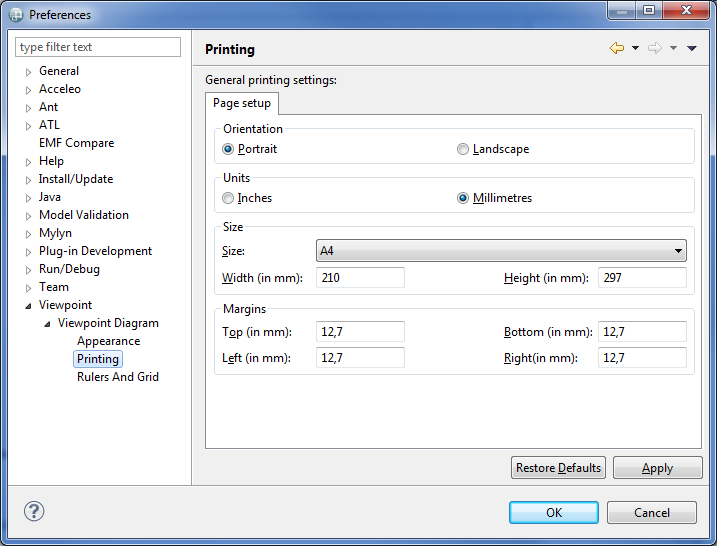
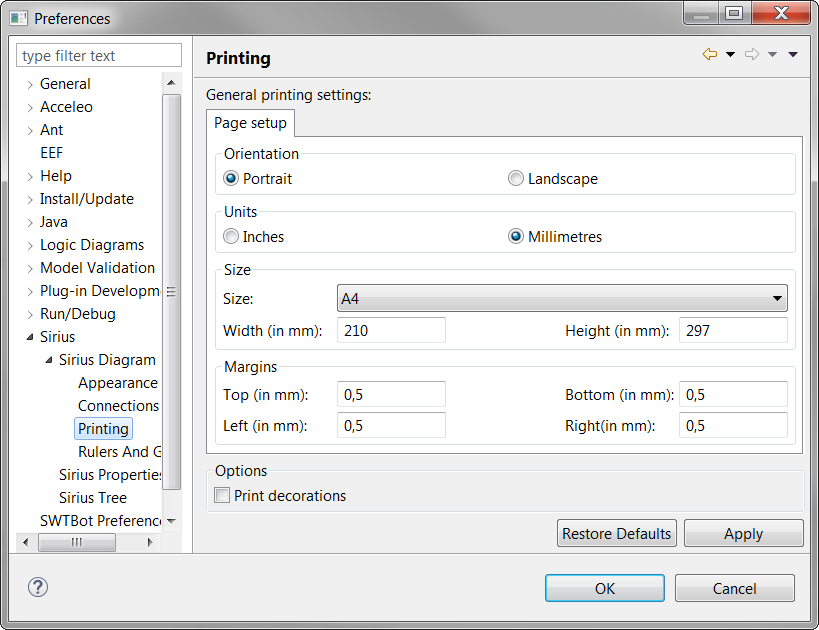
[506259] Update user and specifier documentation for decorations
Bug: 506259

Changed region(s): [[0.0, 0.0, 1.0, 1.0]]

diff --git a/plugins/org.eclipse.sirius.doc/doc/specifier/diagrams/Diagrams.html b/plugins/org.eclipse.sirius.doc/doc/specifier/diagrams/Diagrams.html
@@ -264,6 +264,12 @@
 			<em>L1</em> and once for 
 			<em>L2</em>).
 		</p>
+		<h4 id="Transientlayer">Transient layer</h4>
+		<p>A transient layer is a layer that contains only 
+			<em>Decoration Description</em> and/or tools.
+			<br/>When applying a transient layer, the diagram is 
+			<strong>never</strong> modified. Tools are displayed in the palette and decorations are refreshed in opened editors.
+		</p>
 		<h3 id="graphical_elements">Graphical Elements and Mappings</h3>
 		<p>This section describes the different kinds of graphical elements supported on Sirius diagrams and the general principle of how they are specified inside the VSM, through the notion of 
 			<em>mapping</em>.
@@ -1191,21 +1197,96 @@
 		</ul>
 		<h3 id="decorations">Decorations</h3>
 		<p>Decorations can be used to add small graphical annotations to the elements of a diagram. They are defined directly inside a layer, and they can be either 
-			<em>Mapping Based Decorations</em> or 
-			<em>Semantic Based Decorations</em>. Both have a name, a 
-			<em>Position</em> which indicate where the decorator should be place relative to its target element, and a 
-			<em>Decorator Path</em>, which should point to a small icon to use as decorator.
+			<em>Mapping Based Decorations</em>, 
+			<em>Semantic Based Decorations</em> or 
+			<em>Generic Decorations</em>.
 		</p>
 		<p>
-			<em>Mapping Based Decorations</em> have a list of 
-			<em>Mappings</em> to which they may apply, while 
-			<em>Semantic Based Decoration</em> have a 
+			<strong>Mapping Based Decorations</strong> have a list of 
+			<em>Mappings</em> to which they may apply.
+			<br/> 
+			<img border="0" src="./images/mappingBasedDecoration.png"/>
+		</p>
+		<p>
+			<strong>Semantic Based Decoration</strong> have a 
 			<em>Domain Class</em> and will apply to all graphical elements which have an instance of this class as their semantic element, whatever are the mapping(s) used to represent them.
+			<br/> 
+			<img border="0" src="./images/semanticBasedDecoration.png"/>
+		</p>
+		<p>
+			<strong>Generic Decoration</strong> is only based on the 
+			<em>Precondition Expression</em> to know if it applies on the current graphical Element.
 		</p>
 		<p>The 
-			<em>Precondition Expression</em> is evaluated in the context of a candidate semantic element (as selected by either the 
-			<em>Mappings</em> or 
-			<em>Domain Class</em> property, and if the expression returns true, the decorator will be shown as the specified location on top of the graphical element&#8217;s shape.
+			<em>Precondition Expression</em> is evaluated in the context of a candidate semantic element which is the semantic element of the current graphical element (that is 
+			<em>DSemanticDecorator.target</em>). If the expression returns true, the decorator will be shown.
+		</p>
+		<h4 id="Decorationdisplay">Decoration display</h4>
+		<p>The 
+			<em>Decoration Description</em> has a 
+			<em>Position</em> which indicates where the decorator should be placed. The position can be chosen among the four corners (NORTH_WEST, NORTH_EAST, SOUTH_WEST and SOUTH_EAST), the middle of each bounding box sides (NORTH, SOUTH, WEST and EAST) and the CENTER positions. 
+		</p>
+		<img align="center" border="0" src="./images/decoration_positions.png"/>
+		<p>Many decorations can be specified at the same 
+			<em>Position</em>. To manage that, the decorations are displayed from their defined position along the border of the bounding box according to the 
+			<em>Distribution Direction</em>.
+		</p>
+		<ul>
+			<li>For corner decorations, it is possible to choose between vertical or horizontal direction.</li>
+			<li>For NORTH, SOUTH and CENTER positions, the direction is only horizontal from the left to right.</li>
+			<li>For WEST and EAST positions, the direction is only vertical from top to bottom.</li>
+		</ul>
+		<p>Decorations example: 
+			<img align="center" border="0" src="./images/decoration_example.png"/>
+		</p>
+		<p>By default the margin between the decoration and the border of the figure is 2 pixels.
+			<br/>When a node contains border nodes, the node decorations are shifted from the border to avoid overlap with border node
+			<br/>Decorations example with border nodes: 
+			<img align="center" border="0" src="./images/decoration_borderNode.png"/>
+		</p>
+		<p>The decoration icon is defined with 
+			<em>Image Expression</em> which is an InterpretedExpression. 
+			<em>Image Expression</em> may be:
+		</p>
+		<ul>
+			<li>a path to an image which can be absolute or relative to the workspace. A workspace path example: 
+				<em>/org.eclipse.sirius.tests.sample.component.design/images/square16x16.png</em>
+			</li>
+			<li>an expression that gives a path to an image</li>
+			<li>an expression that provides an instance of 
+				<code>org.eclipse.swt.graphics.Image</code>. Provider will have to define a cache of image to optimize memory consumption and performance. For now, there is no mechanism to release the cache.
+			</li>
+			<li>an expression that provides an instance of 
+				<code>org.eclipse.draw2d.IFigure</code>. The figure life cycle is managed by Sirius.
+			</li>
+		</ul>
+		<p>The 
+			<em>Decoration Description</em> has a 
+			<em>TooltipExpression</em> which may be:
+		</p>
+		<ul>
+			<li>a fixed tooltip string</li>
+			<li>an expression that provides a tooltip String</li>
+			<li>an expression that provides an instance of 
+				<code>org.eclipse.draw2d.IFigure</code>. The figure life cycle is managed by Sirius.
+			</li>
+		</ul>
+		<p>Decoration tooltip example: 
+			<img align="center" border="0" src="./images/decoration_tooltip_example.png"/>
+		</p>
+		<p>Sometimes, according to the graphical element size, the decorations are represented with a 
+			<em>list decoration</em> which is a 16x16 pixels frame containing three dots. The tooltip of a 
+			<em>list decoration</em> displays as lines, the contained decorations with its tooltip. 
+			<br/>Sometimes, the graphical element size can be too small to display all decorations without overlapping. In this condition, decorations will be gathered into one decoration called 
+			<em>list decoration</em>. This 
+			<em>list decoration</em> is represented with a 16x16 pixels frame containing three dots. The tooltip of a 
+			<em>list decoration</em> displays, as lines, the contained decorations with its tooltip.
+		</p>
+		<p>List decoration example: 
+			<img align="center" border="0" src="./images/decoration_group_example.png"/>
+		</p>
+		<p>Tooltip example on list decoration: 
+			<img align="center" border="0" src="./images/decoration_group_tooltip_example.png"/>
 		</p>
 		<h2 id="styling">Styling</h2>
 		<p>Styles define the graphical appearance of diagram elements. Sirius supports a rich set of possible styles, including conditional styles which can dynamically change depending on the current state of the underlying model elements. Each mapping must define at least one style do be visible on the diagram.</p>

diff --git a/plugins/org.eclipse.sirius.doc/doc/user/diagrams/Diagrams.html b/plugins/org.eclipse.sirius.doc/doc/user/diagrams/Diagrams.html
@@ -1470,11 +1470,18 @@
 			<em>Appearance</em> preferences page (see below) gives you two preferences to control whether or not to show the labels on shapes (nodes, containers, bordered nodes) and connectors (edges). It also allows you to customize the default font and colors used for some basic diagram elements. Diagram configurations already specify default values for these style attributes, so in practice these preferences are mostly useful for notes.
 		</p> 
 		<img border="0" src="images/preferences_sirius_diagram_appearance.png"/>
+		<p>The 
+			<em>Authorize decoration overlapping</em> preference lets, if checked, the decorations of different positions overlapping each other or displaying outside the diagram element bounding. If unchecked, decorations may be grouped in a 
+			<em>list decorator</em> to avoid overlapping.
+		</p>
 		<h3 id="Printing">Printing</h3>
 		<p>The 
 			<em>Printing</em> page (see below) gives you various preferences related to page layout for layout printing.
 		</p> 
 		<img border="0" src="images/preferences_sirius_diagram_printing.png"/>
+		<p>The 
+			<em>Print decoration</em> preference allows to print decorations displayed on diagram graphical elements.
+		</p>
 		<h3 id="RulersAndGrid">Rulers And Grid</h3>
 		<p>Finally, the 
 			<em>Rulers And Grid</em> page (see below) contains preferences to control whether or not new diagrams should initially show the rulers and/or grids, and whether to enable the 
